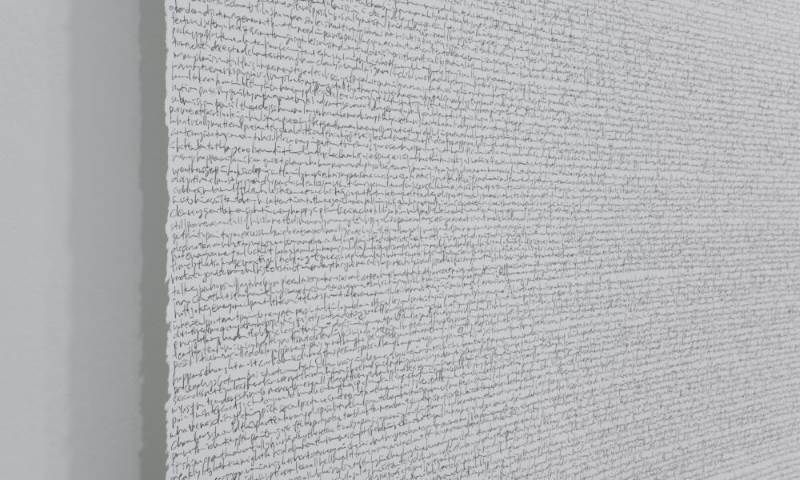
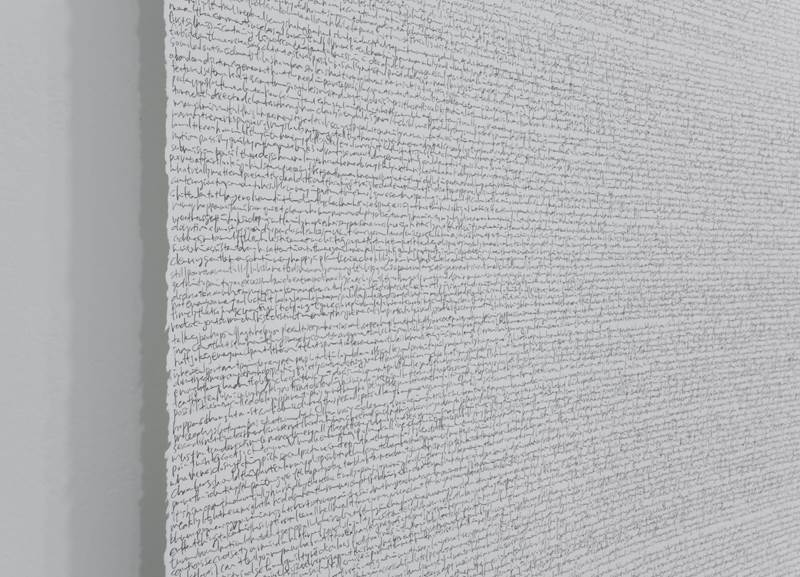
Trial

Changed region(s): [[0.1875, 0.0, 1.0, 1.0]]

diff --git a/trial1.html b/trial1.html
@@ -4,7 +4,6 @@
     <title>hyang cho - TRIAL 1</title>
     <meta charset="utf-8" />
     <link href="Lib/bootstrap/css/bootstrap.min.css" rel="stylesheet" />
-    <link href="Lib/font-awesome/css/font-awesome.min.css" rel="stylesheet" />
     <link href="Styles/site.css" rel="stylesheet" />
 </head>
 <body>
@@ -43,13 +42,13 @@
                 <div class="col-sm-8">
                     <div>
                         <div class="work-image">
-                            <img src="Images/trial1/trial11.jpg" class="img-thumbnail" />
+                            <img src="Images/trial1/trial13.jpg" class="img-thumbnail" />
                         </div>
                         <div class="work-image">
                             <img src="Images/trial1/trial12.jpg" class="img-thumbnail" />
                         </div>
                         <div class="work-image">
-                            <img src="Images/trial1/trial13.jpg" class="img-thumbnail" />
+                            <img src="Images/trial1/trial11.jpg" class="img-thumbnail" />
                         </div>
                     </div>
                 </div>
@@ -59,12 +58,14 @@
                             <strong>TRIAL 1</strong>
                         </div>
                         <div class="work-summary">
-                            2012, 3 sets of 26 drawings
+                            2012, 3 versions of 26 drawings
                         </div>
                         <div class="work-description">
-                            I reproduce the chapter "Im Dom" from Kafka's original manuscript of "The Trial" written in German. 
-                            I printed out the images of Kafka’s manuscript which I found on the Internet, and traced the manuscript onto loose-leaf sketchbooks. 
-                            There are 3 sets of 26 drawings, which are supposed to be identical but obliged to be different from one another. 
+                            I reproduced part of Kafka's original manuscript of "The Trial", chapter 9, "Im Dom" written in German, which I found on the Internet. 
+                            There are 26 pages of manuscript. 
+                            I printed them out and traced them in pencil on a loose leaf sketchbook. 
+                            I made three versions of 26 drawings of the manuscripts and compiled them into unbound books. 
+                            Each book is supposed to be identical but obliged to be different due to my hand copying.
                             <br />
                             <br />
                             <p class="photo-copyright">Photographs of TRIAL 1 by Christopher Lacroix</p>
@@ -74,7 +75,7 @@
             </div>
         </section>
         <footer class="container">
-            copyright <i class="fa fa-copyright" aria-hidden="true"></i> hyang cho
+            copyright &copy; hyang cho
         </footer>
     </div>
 

diff --git a/trial2.html b/trial2.html
@@ -4,7 +4,6 @@
     <title>hyang cho - TRIAL 2</title>
     <meta charset="utf-8" />
     <link href="Lib/bootstrap/css/bootstrap.min.css" rel="stylesheet" />
-    <link href="Lib/font-awesome/css/font-awesome.min.css" rel="stylesheet" />
     <link href="Styles/site.css" rel="stylesheet" />
 </head>
 <body>
@@ -61,11 +60,12 @@
                         <div class="work-description">
                             Hand written transcription of the audio book version of the English translation of "The Trial" written by Franz Kafka. 
                             As listening to the audio book of "The Trial", I transcribed it on a Stonehenge paper roll. 
-                            The transcription process of the entire audio book was repeated about 6 times until there was no more space on the paper to write. 
+                            The transcription process of the entire audio book was repeated until there was no more space on the paper to write further. 
                             The written text of Kafka, translated from German to English, is converted to a spoken language by the reader in the audio book, 
                             and the spoken language of the reader is transformed into an unrecognizable mark making through the transcribing. 
                             The speed of my writing was unable to keep up with the speed of the reading in the audio book. 
-                            As a result, the words are missing, the sentences are broken, and the language becomes incomprehensible scribble. 
+                            As a result, the language becomes incomprehensible scribble. 
+                            Kafka often referred his writings as scribble.
                             <br />
                             <br />
                             <p class="photo-copyright">Photographs of TRIAL 2 by Richard-Max Tremblay</p>
@@ -75,7 +75,7 @@
             </div>
         </section>
         <footer class="container">
-            copyright <i class="fa fa-copyright" aria-hidden="true"></i> hyang cho
+            copyright &copy; hyang cho
         </footer>
     </div>
 

diff --git a/trial3.html b/trial3.html
@@ -61,7 +61,10 @@
                             on-going project
                         </div>
                         <div class="work-description">
-                            I transcribe the audio book of the English translation of "The Trail" written by Franz Kafka, using electronic type writer. I repeat the process to produce 8 versions of Trial 3 so far. The first Trial 3 has 37 pages and the eighth Trial 3 has 45 pages, since my typing speed becomes faster. 
+                            TRIAL 3 is a series of transcription of the audio book of "The Trial" by Franz Kafka, made on an electronic typewriter. 
+                            The speed of my typing is unable to keep up with the speed of the reading in the audio book. 
+                            Therefore, the letters and words are missing and the sentences are broken. 
+                            I repeated the process of transcription of entire book and produced 8 versions of TRIAL 3.
                             <br />
                             <br />
                             <p class="photo-copyright">Photographs of TRIAL 3 by Christopher Lacroix</p>
